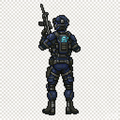
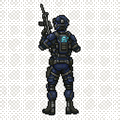
fix(v2.2): 士兵图白底泛洪抠透明(44%透明)；技能节奏回归一波一选(去掉保底/槽位限制，纯随机4张)；卡片标题带波次

diff --git a/index.html b/index.html
@@ -162,24 +162,14 @@ function equipStats(){
 const eqUpCost = it => Math.round(120 * Math.pow(1.35, it.lv-1));
 
 function offerSkills(){
-  const owned = Object.keys(runSkills).filter(k=>runSkills[k]>0);
+  // 一波一选：全部可选技能随机 4 张（已学的会显示"强化 Lv.x→x+1"），无槽位限制、无保底干预
   let pool = SKILL_POOL.filter(s => (!s.locked || save.unlocked.includes(s.id)) && (runSkills[s.id]||0) < s.max);
-  const slotFull = owned.length >= MAX_DISTINCT;
-  if(slotFull) pool = pool.filter(s => runSkills[s.id] > 0);
-  // 保底：已学技能的可升级项优先占一个坑，让"一条线持续变强"有体感
-  const upAvail = pool.filter(s => runSkills[s.id] > 0);
   const picks = [];
-  if(upAvail.length){
-    const i = Math.floor(Math.random()*upAvail.length);
-    picks.push(upAvail.splice(i,1)[0]);
-    pool = pool.filter(s => !picks.includes(s));
-  }
   while(picks.length<4 && pool.length){
     const i = Math.floor(Math.random()*pool.length);
     picks.push(pool.splice(i,1)[0]);
   }
   if(picks.length===0){
-    // 全部满级：转化为金币奖励
     runCoins += 100;
     floatText(player.x, PLAYER_Y-90, '技能全满级 · +100金币', '#ffd93d');
     return;
@@ -705,7 +695,7 @@ function draw(){
     ctx.fillStyle='#00000073'; ctx.beginPath(); ctx.roundRect(px-46, py-20, 58, h, 9); ctx.fill();
     ctx.strokeStyle='#4a437088'; ctx.lineWidth=1; ctx.stroke();
     ctx.fillStyle='#9996b5'; ctx.font='10px sans-serif'; ctx.textAlign='center';
-    ctx.fillText(`技能 ${ownedSkills.length}/${MAX_DISTINCT}`, px-17, py-6);
+    ctx.fillText(`已学 ${ownedSkills.length} 项`, px-17, py-6);
     ctx.textAlign='left';
     let ry = py+12;
     ownedSkills.forEach(id=>{
@@ -1079,7 +1069,7 @@ function drawLevelup(){
   const cards = levelupOptions.map((s,i)=>{
     const lv = runSkills[s.id]||0;
     const tag = lv>0
-      ? `<span style="color:#ffb347;font-size:11px">⬆ 强化 Lv.${lv}→${lv+1}</span>`
+      ? `<span style="color:#ffb347;font-size:11px">⬆ Lv.${lv}→${lv+1}</span>`
       : `<span style="color:#4ade80;font-size:11px">新技能</span>`;
     return `
     <div class="card" data-i="${i}">
@@ -1088,9 +1078,8 @@ function drawLevelup(){
       <div class="cd2">${s.desc}</div>
     </div>`;
   }).join('');
-  const ol = overlay(`<div style="font-size:22px;font-weight:bold;color:#b98cff;margin-bottom:6px">升级！三选一</div>
-    <div style="color:#9996b5;font-size:12px;margin-bottom:14px">技能槽 ${owned}/${MAX_DISTINCT}${owned>=MAX_DISTINCT?' · 已满，只能升级已学技能':''}</div>
-    <div style="display:flex;gap:12px">${cards}</div>`,
+  const ol = overlay(`<div style="font-size:22px;font-weight:bold;color:#b98cff;margin-bottom:14px">第 ${wave} 波结束 · 四选一</div>
+    <div style="display:flex;gap:10px">${cards}</div>`,
     'lv'+level+'_'+levelupOptions.map(s=>s.id).join(','));
   if(!ol) return;
   ol.querySelectorAll('.card').forEach(c=>{
